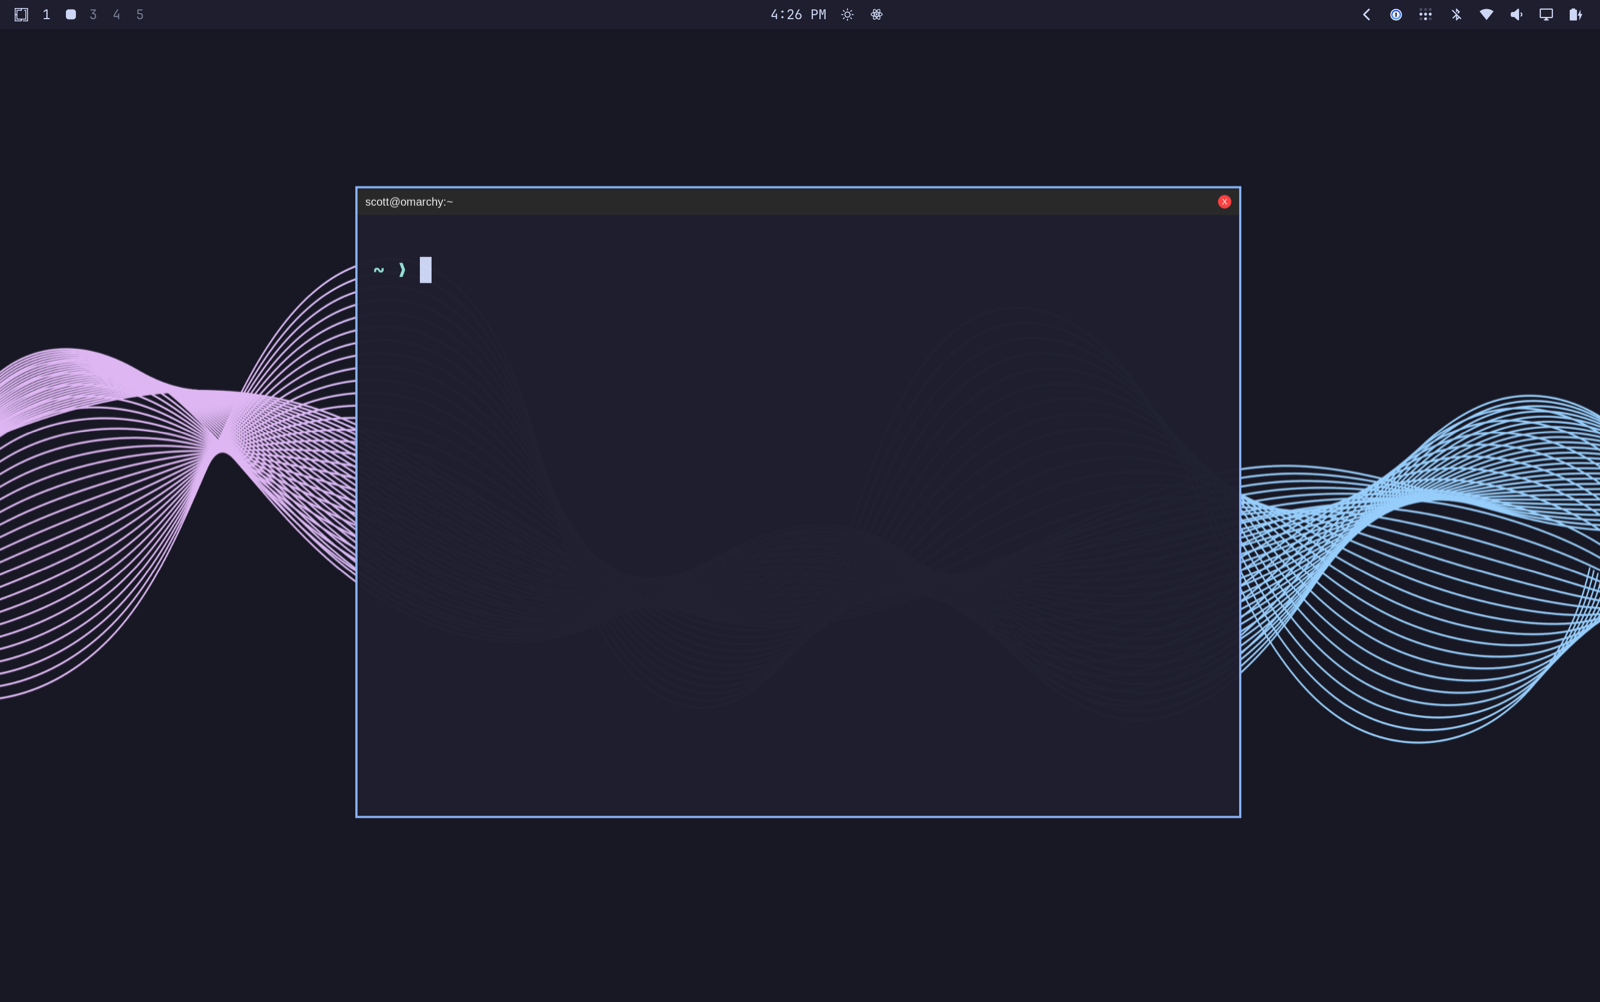
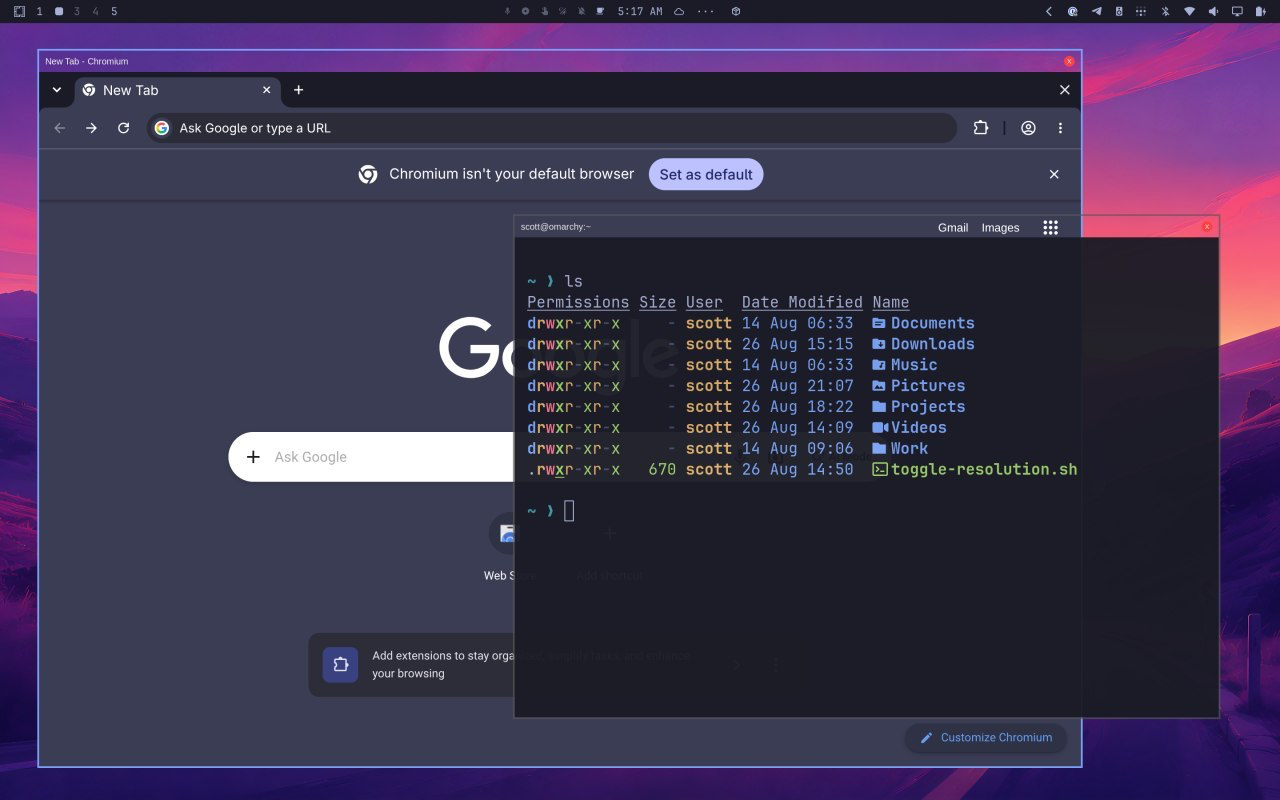
feat: add automatic floating mode
Add a persistent Super+Ctrl+T mode for newly opened windows, transparent title bars, and native maximize/restore on title-bar double-click. Update installer behavior, tests, troubleshooting, and screenshots.

diff --git a/tests/test_install.py b/tests/test_install.py
@@ -116,6 +116,36 @@ esac
         self.assertEqual(overlay.read_text(), (ROOT / "config" / "classic-windows.lua").read_text())
         self.assertTrue((self.home / ".fake-hyprbars-enabled").exists())
 
+    def test_setup_explains_global_mode_and_title_bar_maximize(self):
+        result = self.run_script("setup.sh", "--yes")
+
+        self.assertEqual(result.returncode, 0, result.stdout + result.stderr)
+        self.assertIn("Super+Ctrl+T", result.stdout)
+        self.assertIn("Double-click the title bar", result.stdout)
+
+    def test_overlay_configures_transparent_bar_and_native_maximize(self):
+        result = self.run_script("setup.sh", "--yes")
+
+        self.assertEqual(result.returncode, 0, result.stdout + result.stderr)
+        overlay = (self.hypr / "classic-windows.lua").read_text()
+        self.assertIn('bar_color = "rgba(00000000)"', overlay)
+        self.assertIn(
+            'hl.dsp.window.fullscreen({ mode = \\"maximized\\" })',
+            overlay,
+        )
+        self.assertNotIn("hyprctl dispatch fullscreen 1", overlay)
+
+    def test_overlay_global_mode_is_persistent_and_retiles_only_auto_floats(self):
+        result = self.run_script("setup.sh", "--yes")
+
+        self.assertEqual(result.returncode, 0, result.stdout + result.stderr)
+        overlay = (self.hypr / "classic-windows.lua").read_text()
+        self.assertIn('hl.unbind("SUPER + CTRL + T")', overlay)
+        self.assertIn('o.bind("SUPER + CTRL + T"', overlay)
+        self.assertIn('/omarchy-classic-windows/floating-mode.enabled"', overlay)
+        self.assertIn('tag = "+cw-auto-float"', overlay)
+        self.assertIn('hl.get_windows({ tag = "cw-auto-float" })', overlay)
+
     def test_setup_is_idempotent(self):
         first = self.run_script("setup.sh", "--yes")
         second = self.run_script("setup.sh", "--yes")
@@ -217,6 +247,23 @@ esac
         self.assertEqual((self.hypr / "hyprland.lua").read_text(), before_hyprland)
         self.assertEqual((self.hypr / "autostart.lua").read_text(), before_autostart)
         self.assertFalse((self.hypr / "classic-windows.lua").exists())
+
+    def test_uninstall_removes_the_plugin_floating_mode_marker(self):
+        setup = self.run_script("setup.sh", "--yes")
+        self.assertEqual(setup.returncode, 0, setup.stdout + setup.stderr)
+        marker = (
+            self.home
+            / ".local"
+            / "state"
+            / "omarchy-classic-windows"
+            / "floating-mode.enabled"
+        )
+        marker.touch()
+
+        uninstall = self.run_script("uninstall.sh", "--yes")
+
+        self.assertEqual(uninstall.returncode, 0, uninstall.stdout + uninstall.stderr)
+        self.assertFalse(marker.exists())
 
     def test_setup_fails_safely_when_not_running_omarchy_lua_config(self):
         (self.hypr / "hyprland.lua").unlink()

diff --git a/README.md b/README.md
@@ -1,18 +1,20 @@
 # Omarchy Classic Windows
 
-![A centered floating terminal with a dark title bar and red close button](docs/images/classic-windows.png)
+![Floating Chromium and terminal windows with transparent title bars and red close buttons](docs/images/classic-windows.png)
 
 Give Omarchy floating windows the familiar behavior people expect from Windows and macOS—without turning Omarchy into a traditional stacking desktop.
 
 - Press **Super+T** to switch the active window between tiled and floating.
+- Press **Super+Ctrl+T** to make every newly opened window float automatically; press it again to return to regular tiling.
 - Floating windows are centered at a comfortable size.
+- Double-click a floating window's transparent title bar to maximize it without entering fullscreen; double-click again to restore its previous size.
 - Drag any edge or corner to resize.
 - Click the red **X** to close.
 - Tiled windows keep Omarchy's clean border-only look.
 
 ![Floating Chromium and terminal with Classic Windows title bars, plus a bottom dock](docs/images/classic-windows-with-dock.png)
 
-Classic Windows only adds title bars and floating-window behavior. The example above also has [Dock](https://omarchyplugins.com/plugin.html?id=rosakodu.dock) (`rosakodu.dock`) enabled along the bottom. Install that plugin separately if you want a dock.
+Classic Windows only adds title bars and floating-window behavior. The example above also has [Dock](https://omarchyplugins.com/plugin.html?id=rosakodu.dock) (`rosakodu.dock`) enabled along the bottom. It was captured with an earlier Classic Windows version that used black title bars; the current version uses the transparent bars shown in the first screenshot. Install Dock separately if you want it.
 
 ## Before you install
 
@@ -44,7 +46,8 @@ When setup finishes, **log out of Omarchy and sign in again once**. This starts 
 2. Press **Super+T**.
 3. The terminal should become a centered floating window with a title bar.
 4. Drag an edge or corner to resize it.
-5. Click the red **X** to close it.
+5. Double-click the transparent title bar to maximize it, then double-click again to restore it.
+6. Click the red **X** to close it.
 
 ## Everyday controls
 
@@ -52,11 +55,17 @@ When setup finishes, **log out of Omarchy and sign in again once**. This starts 
 |---|---|
 | Make a tiled window float | **Super+T** |
 | Put a floating window back into the layout | **Super+T** |
+| Make newly opened windows float automatically | **Super+Ctrl+T** |
+| Return to regular tiling | **Super+Ctrl+T** again |
+| Maximize a floating window without fullscreen | Double-click its title bar |
+| Restore the window's previous size | Double-click its title bar again |
 | Move a floating window | Drag its title bar |
 | Resize a floating window | Drag any edge or corner |
 | Close a floating window | Click the red **X** |
 
 On most keyboards, **Super** is the key with the Windows logo. Apple keyboards usually label it **Command (⌘)**.
+
+Automatic floating mode is remembered across restarts. Turning it off retiles only windows that the mode floated automatically; windows that were already floating for another reason are left alone. **Super+T** always remains available as a per-window override.
 
 ## Update
 
@@ -101,6 +110,7 @@ See [Troubleshooting](docs/TROUBLESHOOTING.md) for plain-language fixes and diag
 
 - Tested on Omarchy Quattro, Hyprland 0.56.2.
 - Designed for the default **Super+T** floating-window shortcut.
+- Adds **Super+Ctrl+T** for persistent automatic floating mode.
 - Uses monitor-relative sizing, so it is not tied to one laptop or resolution.
 - Client-side decorations in apps such as Brave or file managers may still display their own header controls inside the app.
 

diff --git a/docs/TROUBLESHOOTING.md b/docs/TROUBLESHOOTING.md
@@ -68,6 +68,22 @@ git pull --ff-only
 
 Log out and back in once after updating so old window tags are cleared.
 
+## Super+Ctrl+T is on, but a window still tiles
+
+Automatic floating applies when a window opens. Close and reopen the app after enabling the mode. Apps that create special dialogs or popups may still choose their own floating behavior.
+
+Press **Super+Ctrl+T** again to return to regular tiling. Classic Windows retiles only windows it floated automatically and leaves manually floating windows alone. The mode is remembered across restarts.
+
+## Double-clicking the title bar does not maximize
+
+Make sure you double-click the title-bar area rather than the red **X**. Check the configured action:
+
+```bash
+hyprctl getoption plugin:hyprbars:on_double_click
+```
+
+It should contain `hl.dsp.window.fullscreen({ mode = "maximized" })`. This is Hyprland's maximized state, which keeps the Omarchy bar and reserved screen area visible; it is not fullscreen mode.
+
 ## An Omarchy update disabled hyprbars
 
 Run setup again:
